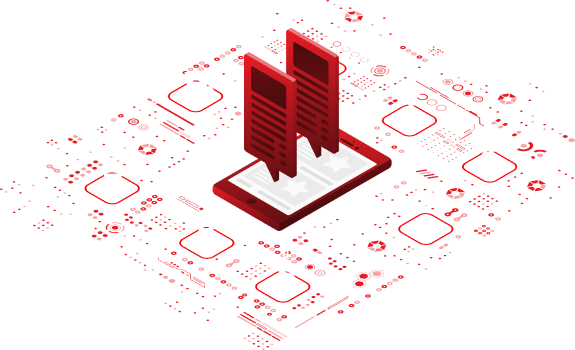
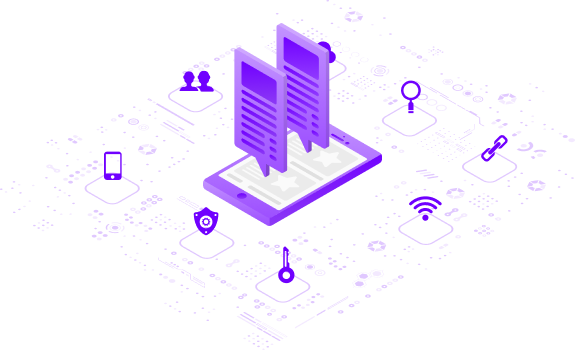
site theme updated

diff --git a/components/FeaturesIcon.vue b/components/FeaturesIcon.vue
@@ -10,11 +10,11 @@
     >
       <path
         d="M5.625 16.875H11.25V73.125H5.625V16.875ZM16.875 11.25H22.5V78.75H16.875V11.25ZM39.375 61.875H73.125V67.5H39.375V61.875ZM39.375 45H73.125V50.625H39.375V45Z"
-        fill="#E81C25"
+        fill="#481CE8"
       />
       <path
         d="M83.5313 26.1562L63.8438 6.46875C63.2813 5.90625 62.7188 5.625 61.875 5.625H33.75C30.6562 5.625 28.125 8.15625 28.125 11.25V78.75C28.125 81.8438 30.6562 84.375 33.75 84.375H78.75C81.8438 84.375 84.375 81.8438 84.375 78.75V28.125C84.375 27.2812 84.0938 26.7188 83.5313 26.1562ZM61.875 12.375L77.625 28.125H61.875V12.375ZM78.75 78.75H33.75V11.25H56.25V28.125C56.25 31.2188 58.7812 33.75 61.875 33.75H78.75V78.75Z"
-        fill="#E81C25"
+        fill="#481CE8"
       />
     </svg>
     <svg
@@ -27,19 +27,19 @@
     >
       <path
         d="M26.7188 45C33.7086 45 39.375 39.3336 39.375 32.3438C39.375 25.3539 33.7086 19.6875 26.7188 19.6875C19.7289 19.6875 14.0625 25.3539 14.0625 32.3438C14.0625 39.3336 19.7289 45 26.7188 45Z"
-        fill="#E81C25"
+        fill="#481CE8"
       />
       <path
         d="M41.1328 52.0312C36.1828 49.5176 30.7195 48.5156 26.7188 48.5156C18.8824 48.5156 2.8125 53.3215 2.8125 62.9297V70.3125H29.1797V67.4877C29.1797 64.1479 30.5859 60.7992 33.0469 58.0078C35.0104 55.7789 37.7596 53.71 41.1328 52.0312Z"
-        fill="#E81C25"
+        fill="#481CE8"
       />
       <path
         d="M59.7656 50.625C50.6127 50.625 32.3438 56.2781 32.3438 67.5V75.9375H87.1875V67.5C87.1875 56.2781 68.9186 50.625 59.7656 50.625Z"
-        fill="#E81C25"
+        fill="#481CE8"
       />
       <path
         d="M59.7656 45C68.3088 45 75.2344 38.0744 75.2344 29.5312C75.2344 20.9881 68.3088 14.0625 59.7656 14.0625C51.2225 14.0625 44.2969 20.9881 44.2969 29.5312C44.2969 38.0744 51.2225 45 59.7656 45Z"
-        fill="#E81C25"
+        fill="#481CE8"
       />
     </svg>
     <svg
@@ -52,7 +52,7 @@
     >
       <path
         d="M8.77464 3.6046L3.59998 8.77897L14.9842 24.7212C15.4635 25.3926 16.0963 25.9396 16.8299 26.3168C17.5635 26.6939 18.3767 26.8902 19.2016 26.8893H19.5638C20.2442 26.8888 20.918 27.0224 21.5466 27.2825C22.1753 27.5427 22.7465 27.9242 23.2275 28.4054L37.0697 42.2468L23.5276 55.9796C21.2114 55.2979 18.7682 55.1652 16.3917 55.5921C14.0153 56.019 11.771 56.9938 9.83699 58.4391C7.90294 59.8844 6.33231 61.7605 5.24968 63.9185C4.16705 66.0765 3.60221 68.4571 3.59998 70.8715C3.60308 73.0961 4.08434 75.2942 5.01117 77.3166C5.93799 79.339 7.28871 81.1386 8.97183 82.5935C10.6549 84.0483 12.6311 85.1244 14.7665 85.7489C16.9018 86.3733 19.1464 86.5315 21.3483 86.2128C23.5501 85.894 25.6577 85.1058 27.5283 83.9014C29.3988 82.697 30.9887 81.1046 32.19 79.2322C33.3914 77.3598 34.1763 75.251 34.4914 73.0488C34.8066 70.8465 34.6447 68.6023 34.0167 66.4681L47.7502 52.9267L52.7593 57.9355L51.181 62.6649C50.8777 63.5765 50.8343 64.5545 51.0554 65.4894C51.2766 66.4243 51.7537 67.2792 52.4333 67.9583L69.3544 84.8785C69.8339 85.3607 70.4039 85.7433 71.0318 86.0044C71.6597 86.2655 72.3329 86.4 73.0129 86.4C73.6929 86.4 74.3662 86.2655 74.9941 86.0044C75.6219 85.7433 76.192 85.3607 76.6714 84.8785L84.8784 76.672C85.3606 76.1925 85.7433 75.6225 86.0044 74.9947C86.2655 74.3669 86.4 73.6936 86.4 73.0137C86.4 72.3337 86.2655 71.6605 86.0044 71.0326C85.7433 70.4048 85.3606 69.8348 84.8784 69.3554L67.9573 52.4352C67.2781 51.7556 66.4232 51.2786 65.4883 51.0574C64.5533 50.8362 63.5752 50.8797 62.6636 51.183L57.934 52.7612L52.9663 47.7938L66.8344 34.1179C69.135 34.732 71.5459 34.8095 73.8812 34.3446C76.2165 33.8797 78.4138 32.8846 80.3038 31.4363C82.1937 29.9879 83.7257 28.1249 84.7818 25.9908C85.8378 23.8568 86.3896 21.5087 86.3946 19.1277C86.3946 17.7358 86.2135 16.3853 85.8668 15.1072L74.793 26.1856L65.696 24.3021L63.8124 15.2107L74.8913 4.13238C72.2559 3.42381 69.4801 3.42249 66.844 4.12855C64.2078 4.83461 61.8044 6.2231 59.8759 8.15406C57.9475 10.085 56.5622 12.4902 55.8597 15.1272C55.1572 17.7642 55.1622 20.5397 55.8744 23.1741L42.2133 37.0311L28.4021 23.231C27.4316 22.2608 26.8863 20.9449 26.886 19.5727V19.2053C26.886 18.3814 26.6893 17.5693 26.3122 16.8367C25.9351 16.1041 25.3885 15.4721 24.7178 14.9934L8.77464 3.6046ZM58.6895 58.691C58.9298 58.4501 59.2153 58.2589 59.5297 58.1285C59.844 57.9981 60.181 57.9309 60.5213 57.9309C60.8616 57.9309 61.1986 57.9981 61.5129 58.1285C61.8273 58.2589 62.1128 58.4501 62.3531 58.691L77.4321 73.7743C77.9034 74.2623 78.1642 74.9158 78.1583 75.5941C78.1524 76.2725 77.8803 76.9214 77.4006 77.4011C76.9209 77.8808 76.2719 78.1529 75.5935 78.1587C74.9152 78.1646 74.2616 77.9039 73.7736 77.4326L58.6895 62.3545C58.4485 62.1141 58.2573 61.8286 58.1269 61.5143C57.9965 61.2 57.9293 60.863 57.9293 60.5227C57.9293 60.1824 57.9965 59.8455 58.1269 59.5311C58.2573 59.2168 58.4485 58.9313 58.6895 58.691ZM19.124 60.5227L21.5612 61.7749L24.2986 61.9095L25.7838 64.2121L28.0865 65.6971L28.221 68.4344L29.4733 70.8715L28.221 73.3086L28.0865 76.0459L25.7838 77.5309L24.2986 79.8335L21.5612 79.968L19.124 81.2202L16.6867 79.968L13.9493 79.8335L12.4642 77.5309L10.1615 76.0459L10.0269 73.3086L8.77464 70.8715L10.0269 68.4344L10.1615 65.6971L12.4642 64.2121L13.9493 61.9095L16.6867 61.7749L19.124 60.5227Z"
-        fill="#E81C25"
+        fill="#481CE8"
       />
     </svg>
     <svg
@@ -65,7 +65,7 @@
     >
       <path
         d="M48.4688 41.4375L32.5312 25.5L37.875 20.25L48.4688 30.8438L69.75 9.65625L75 14.9062L48.4688 41.4375ZM3.75 82.5V41.25H18.75V82.5H3.75ZM52.5 82.5L26.25 75.0938V41.25H33.6563L63.75 52.5V60H48.75L42.1875 57.4688L40.875 60.9375L48.75 63.75H82.5V71.25L52.5 82.5Z"
-        fill="#E81C25"
+        fill="#481CE8"
       />
     </svg>
   </span>

diff --git a/tailwind.config.ts b/tailwind.config.ts
@@ -1,52 +1,61 @@
 const redTheme = {
-  bgColor: '#070C0E',
-  headingColor: '#FFFFFF',
-  paraColor: '#AAAAAA',
-  primary: '#E81C25',
-  stroke: '#640E12',
-  cardColor: '#0E0B0B',
-  footerColor: '#0F1314',
-}
+  bgColor: "#070C0E",
+  headingColor: "#FFFFFF",
+  paraColor: "#AAAAAA",
+  primary: "#E81C25",
+  stroke: "#640E12",
+  cardColor: "#0E0B0B",
+  footerColor: "#0F1314",
+};
 
 const purpleTheme = {
-  bgColor: '#FFFFFF',
-  headingColor: '#070C0E',
-  paraColor: '#AAAAAA',
-  primary: '#481CE8',
-  stroke: '#250E64',
-  cardColor: '#0E0B0B',
-  footerColor: '#0F1314',
-}
+  bgColor: "#FFFFFF",
+  bgSecondaryColor: "#FCFAFF",
+  headingColor: "#070C0E",
+  paraColor: "#AAAAAA",
+  primary: "#481CE8",
+  stroke: "#250E64",
+  cardColor: "#0E0B0B",
+  footerColor: "#0F1314",
+};
 
 export default {
-    theme: {
-      screens: {
-        sm: '480px',
-        md: '768px',
-        lg: '976px',
-        xl: '1440px'
-      },
-      fontFamily: {
-        sans: ['DM Sans', 'sans-serif'],
-        serif: ['Libre Baskerville', 'serif']
-      },
-
-      extend: {
-        colors: redTheme
-      }
+  theme: {
+    screens: {
+      sm: "480px",
+      md: "768px",
+      lg: "976px",
+      xl: "1440px",
     },
-    content: [
-      './components/**/*.{vue,js,ts}',
-      './layouts/**/*.vue',
-      './pages/*.vue',
-      './pages/**/*.vue',
-      './pages/**/**/*.vue',
-      './pages/**/**/**/*.vue',
-      './composables/*.{js,ts}',
-      './composables/**/*.{js,ts}',
-      './plugins/**/*.{js,ts}',
-      './nuxt.config.{js,ts}'
-    ],
-    plugins: [require('@tailwindcss/typography')],
-    cssPath: '~/assets/css/tailwind.css'
-  }
+    fontFamily: {
+      sans: ["DM Sans", "sans-serif"],
+      serif: ["Libre Baskerville", "serif"],
+    },
+
+    extend: {
+      colors: {
+        bgColor: "#FFFFFF",
+        headingColor: "#181818",
+        paraColor: "#333333",
+        primary: "#9643FF",
+        stroke: "#E0C8FF",
+        cardColor: "#FCFAFF",
+        footerColor: "#FCFAFF",
+      },
+    },
+  },
+  content: [
+    "./components/**/*.{vue,js,ts}",
+    "./layouts/**/*.vue",
+    "./pages/*.vue",
+    "./pages/**/*.vue",
+    "./pages/**/**/*.vue",
+    "./pages/**/**/**/*.vue",
+    "./composables/*.{js,ts}",
+    "./composables/**/*.{js,ts}",
+    "./plugins/**/*.{js,ts}",
+    "./nuxt.config.{js,ts}",
+  ],
+  plugins: [require("@tailwindcss/typography")],
+  cssPath: "~/assets/css/tailwind.css",
+};

diff --git a/assets/css/tailwind.css b/assets/css/tailwind.css
@@ -18,9 +18,8 @@ body {
     position: absolute;
     width: 1131px;
     height: 1131px;
-    background: radial-gradient(45.41% 45.41% at 50% 50%, #E81C25 0%, rgba(232, 28, 37, 0) 100%);
+    background: radial-gradient(45.41% 45.41% at 50% 50%, #b176ff 0%, rgba(255, 255, 255, 0.192) 100%);
     opacity: 0.2;
-    border: 1px solid #000000;
     z-index: -1;
 
 }
@@ -59,15 +58,15 @@ body {
 }
 
 .glowy-container {
-    @apply rounded-2xl border border-[#E81C253F] shadow-[#E81C253F_0px_0px_20px] bg-cardColor;
+    @apply rounded-2xl border border-[#E0C8FF] shadow-[#E0C8FF3F_0px_0px_20px] bg-cardColor;
 }
 
 .btn-primary {
-    @apply bg-primary hover:bg-stroke border border-primary transition-all rounded-lg py-2 px-5 font-medium text-headingColor cursor-pointer;
+    @apply bg-primary hover:bg-violet-600 border border-primary transition-all rounded-lg py-2 px-5 font-medium text-bgColor cursor-pointer;
 }
 
 .glowy-border {
-    @apply border-y border-[#E81C253F] bg-cardColor;
+    @apply border-y border-[#E0C8FF] bg-cardColor;
 }
 
 /* ANIMATION */

diff --git a/pages/contact.vue b/pages/contact.vue
@@ -118,20 +118,20 @@ async function submitForm() {
       title: "Thanks for reaching out to us",
       text: "We will get back to you soon.",
       icon: "success",
-      iconColor: "#E81C25",
+      iconColor: "#481CE8",
       color: "#ffffff",
       background: "#070C0E",
-      confirmButtonColor: "#E81C25",
+      confirmButtonColor: "#481CE8",
     });
   } else {
     Swal.fire({
       title: "Something went wrong",
       text: "Please use the live chat option to contact us meanwhile we'll fix it.",
       icon: "error",
-      iconColor: "#E81C25",
+      iconColor: "#481CE8",
       color: "#ffffff",
       background: "#070C0E",
-      confirmButtonColor: "#E81C25",
+      confirmButtonColor: "#481CE8",
     });
   }
 }

diff --git a/components/Footer.vue b/components/Footer.vue
@@ -1,7 +1,7 @@
 <template>
   <div class="relative">
     <!-- <div class="bottom-0 left-0 radial" /> -->
-    <div class="mx-auto bg-footerColor z-10 w-full mt-20 pt-20 min-h-[400px] px-8">
+    <div class="mx-auto bg-footerColor z-10 w-full mt-20 pt-20 min-h-[400px] px-8 pb-2">
       <div class="max-w-7xl mx-auto flex flex-wrap items-center justify-between gap-8">
         <img src="@/assets/images/logo-large.png" class="mr-3" alt="vanops" />
         <div class="flex flex-wrap gap-y-5 gap-x-28">

diff --git a/components/Header.vue b/components/Header.vue
@@ -35,7 +35,7 @@
             <li v-for="(navLink, index) in navLinks" :key="index">
               <NuxtLink
                 :to="navLink.path"
-                class="block py-2 pl-3 pr-4 text-white rounded md:hover:bg-transparent md:hover:text-primary md:p-0"
+                class="block py-2 pl-3 pr-4 text-paraColor rounded md:hover:bg-transparent md:hover:text-primary md:p-0"
                 >{{ navLink.name }}</NuxtLink
               >
             </li>

diff --git a/pages/projects.vue b/pages/projects.vue
@@ -15,7 +15,7 @@
           @click="activeCategory = category"
           class="cursor-pointer relative text-center"
         >
-          <h2 class="text-lg text-white px-4">{{ category }}</h2>
+          <h2 class="text-lg text-primary px-4">{{ category }}</h2>
           <div
             :class="activeCategory == category ? '' : 'hidden'"
             class="w-full h-[3px] bg-primary mt-2"
